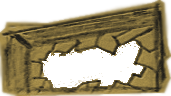
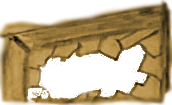
cahnges

diff --git a/js/interactions.js b/js/interactions.js
@@ -7,6 +7,10 @@ function interact_item(_static_item_clicked){
             _static_item_clicked.alpha = 0;
         break;
         
+        case 'bar_sign':
+            showManText('It reads: "BAR"', 200);
+        break;
+        
         case 'ladder_b':
             if (ladderMission && !stoneMission){
                 showManText("No point, the window seems closed from the inside", 0);
@@ -37,6 +41,7 @@ function interact_item(_static_item_clicked){
         
         case 'pub_door':
             showManText("Naa, it's still raining outside", 0);
+            //this.game.state.start('Street'); 
         break;
         
         case 'broken_pub_window':
@@ -62,6 +67,22 @@ function interact_item(_static_item_clicked){
         
         case 'barrel_empty':
             showManText("I'ts empty now. someone must have drank it! * Hic *", 0);
+        break;
+        
+        case 'stool':
+            showManText("It's a bar stool", 0);
+        break;
+        
+        case 'wc_door':
+            showManText("Stickmen bodily functions don't work that way", 0);
+        break;
+        
+        case 'chandelier':
+            showManText("That's one big lamp", 0);
+        break;
+        
+        case 'poster':
+            showManText('"Beer. Helping ugly Stickmen get laid since 1862"', 0);
         break;
         
         case 'secret_door':
@@ -152,8 +173,16 @@ function interact_item(_static_item_clicked){
     
     static_item_clicked = null;
     
-    if (_static_item_clicked.tint != '0xffffff') _static_item_clicked.tint = '0xffffff';
-    else { _static_item_clicked.alpha = 0; }
+    if (_static_item_clicked.tint != '0xffffff'){
+        setTimeout(function(){
+            _static_item_clicked.tint = '0xffffff';  
+        }, 200); 
+    }
+    else { 
+        setTimeout(function(){
+            _static_item_clicked.alpha = 0; 
+        }, 100); 
+   }
 }
 
 function window_mission(){
@@ -238,6 +267,7 @@ function use_item(inventory_item, static_item){
             get_item('name', 'ladder_b').visible = true;
             kill_inventory_item(inventory_item);
             showManText("I'm sure that won't look suspicious to anyone", 300);
+            suspend(total_text_time);
             
             ladderMission = true;
             
@@ -306,7 +336,7 @@ function use_item(inventory_item, static_item){
                 suspend(1000);
                 
                 setTimeout(function(){   
-                    create_item( game, 'dart', true, true, 480, 217, true );
+                    create_item( game, 'dart', true, true, 474, 224, true );
                 },300);
 
                 showManText("I suck at this", 1000);
@@ -315,7 +345,7 @@ function use_item(inventory_item, static_item){
             else{
                 suspend(5300);
                 
-                create_item( game, 'dart', true, false, 538, 185, true );
+                create_item( game, 'dart', true, false, 555, 196, true );
                 get_item('name', 'dart').tint = 0xffddff; 
 
                 showManText("Bullseye! i'm alot better at this when i'm drunk!", 500);
@@ -407,7 +437,7 @@ function use_item(inventory_item, static_item){
                 get_item('name', 'barrel_empty').visible = true;
                 
                 man.x = 728;
-                man.y = 313;
+                man.y = 320;
                 man.frame = 4;
                 dir == 'left';
             }, 7000);

diff --git a/js/pub.js b/js/pub.js
@@ -16,11 +16,11 @@ pub.prototype = {
        
         pub_bound_u = game.add.sprite(0, 0, null);
         game.physics.enable(pub_bound_u, Phaser.Physics.ARCADE);
-        pub_bound_u.body.setSize(TOTAL_WIDTH, 275);
+        pub_bound_u.body.setSize(TOTAL_WIDTH, 285);
         pub_bound_u.body.immovable = true;
 
         create_pub_items();
-        create_man(665, 375, 4);
+        create_man(690, 405, 4);
 
         sfxRain.stop();
 
@@ -39,8 +39,8 @@ pub.prototype = {
         var pub_vel_x = 40 + (Math.abs(man.body.x - placeToGoX) / 1.35);
         var pub_vel_y = 40 + (Math.abs(man.body.y - placeToGoY) / 1.6);
         
-        var boundsR = 750;
-        var boundsL = 250;
+        var boundsR = 760;
+        var boundsL = 260;
 
         if (placeToGoX != null){ 
             if (!sfxSteps_pub.isPlaying) sfxSteps_pub.play();
@@ -89,15 +89,19 @@ function hitPubBounds(){
 function create_pub_items(){
     drawLine();
     
-    create_item( game, 'glass', true, true, 607, 370, true );
-    create_item( game, 'barrel', true, false, 635, 243, true );
-    create_item( game, 'pub_door', false, false, 400, 177, true );
-    create_item( game, 'broken_pub_window', false, false, 563, 14, true );
-    create_item( game, 'dart', true, true, 220, 350, true );
-    create_item( game, 'dart_board', true, false, 540, 170, true );
-    create_item( game, 'rock', true, true, 590, 435, true );
-    create_item( game, 'barrel_glass', true, false, 635, 243, false );
-    create_item( game, 'barrel_open', true, false, 635, 243, false );
-    create_item( game, 'barrel_empty', true, false, 600, 255, false );
-    create_item( game, 'secret_door', true, false, 870, 382, false );
+    create_item( game, 'glass', true, true, 610, 417, true );
+    create_item( game, 'barrel', true, false, 653, 260, true );
+    create_item( game, 'barrel_glass', true, false, 653, 260, false );
+    create_item( game, 'barrel_open', true, false, 653, 260, false );
+    create_item( game, 'barrel_empty', true, false, 600, 265, false );
+    create_item( game, 'pub_door', false, false, 431, 193, true );
+    create_item( game, 'broken_pub_window', false, false, 588, 7, true );
+    create_item( game, 'dart', true, true, 222, 413, true );
+    create_item( game, 'dart_board', true, false, 558, 185, true );
+    create_item( game, 'rock', true, true, 588, 440, true );
+    create_item( game, 'secret_door', true, false, 877, 420, false );
+    create_item( game, 'stool', true, false, 305, 283, true );
+    create_item( game, 'chandelier', false, false, 364, 0, true );
+    create_item( game, 'wc_door', false, false, 788, 200, true ); // stop man comes before the interaction with door
+    create_item( game, 'poster', false, false, 694, 170, true );
 }

diff --git a/js/stickman.js b/js/stickman.js
@@ -131,11 +131,12 @@ function create_man(x, y, _frame){
     manText = game.add.text(0, 70, '' , {font: "20px " + font, fill: "#f9d5b2", align:'center', stroke: "0x000000", strokeThickness: 3});
     manText.anchor.setTo(0.5, 0.5);
 
-    walkingIcon = game.add.sprite(450, 350, 'walkingIcon');
+    walkingIcon = game.add.sprite(350, 290, 'walkingIcon');
     walkingIcon.anchor.set(0.5, 0);
     
     if (thisPlace == 'maze'){
         walkingIcon.scale.set(0.45, 0.45);
+        game.add.tween(man).from( { alpha: 0}, 2500, Phaser.Easing.Sinusoidal.InOut, true); 
     }
     
     game.camera.follow(man, Phaser.Camera.topdownFollow);
@@ -156,8 +157,8 @@ function walk_update(){
 function showManText(textToShow, timeToWait){    
     try{ clearTimeout(textTimer); } catch(e){}
     
-    fade_text_time = 400;
-    text_show_time = textToShow.length * 65;
+    fade_text_time = 350;
+    text_show_time = textToShow.length * 60;
     total_text_time = timeToWait + text_show_time + (fade_text_time * 1.5) + 50; 
 
     setTimeout(function(){
@@ -223,7 +224,7 @@ function create_rain(){
 
 function drawLine(){
     line = game.add.sprite(96, TOTAL_HEIGHT - 100, 'line');
-    line.alpha = 0.4;
+    line.alpha = 0.3;
     line.fixedToCamera = true;
 }
 
@@ -234,7 +235,7 @@ function endTheGame(){
     timePassedText = game.add.text(40 + game.camera.x, 120, 'To be continued...' , {font: "68px " + font, fill: "#f7f7f7", align:'center'});
     timePassedText.alpha = 0;
 
-    timePassedText2 = game.add.text(40 + game.camera.x, 245, 'When StickMan reaches\n1,000 downloads...' , {font: "48px " + font, fill: "#f7f7f7", align:'center'});
+    timePassedText2 = game.add.text(40 + game.camera.x, 245, 'October 31, 2016' , {font: "48px " + font, fill: "#f7f7f7", align:'center'});
     timePassedText2.alpha = 0;
 
     tweenAlpha(timePassedText, 1, 4500);            
@@ -292,10 +293,6 @@ function endTheGame(){
         setTimeout(function(){
             tweenAlpha(gameOverTxt2, 0, 4500);  
         }, 14500);  
-        
-       /* setTimeout(function(){
-            showAd();
-        }, 22000);  */
     }, 24000);              
 }
 

diff --git a/js/preloader.js b/js/preloader.js
@@ -13,6 +13,7 @@ preloader.prototype = {
         game.load.image('hall', 'images/stickman/hall.jpg');
         game.load.image('door', 'images/stickman/door.png');
         game.load.image('ladder_s', 'images/stickman/ladder_s.png');
+        game.load.image('bar_sign', 'images/stickman/bar_sign.png');
         game.load.image('window', 'images/stickman/window.png');
         game.load.image('pub_door', 'images/stickman/pub_door.png');
         game.load.image('barrel_empty', 'images/stickman/barrel_empty.png');
@@ -26,8 +27,12 @@ preloader.prototype = {
         game.load.image('barrel', 'images/stickman/barrel.png');
         game.load.image('barrel_glass', 'images/stickman/barrel_glass.png');
         game.load.image('barrel_open', 'images/stickman/barrel_open.png');
+        game.load.image('stool', 'images/stickman/stool.png');
         game.load.image('dart_board', 'images/stickman/dart_board.png');
         game.load.image('dart', 'images/stickman/dart.png');
+        game.load.image('chandelier', 'images/stickman/chandelier.png');
+        game.load.image('poster', 'images/stickman/poster.png');
+        game.load.image('wc_door', 'images/stickman/wc_door.png');
         game.load.image('secret_door', 'images/stickman/secret_door.png');
         game.load.image('switch', 'images/stickman/switch.png');
         game.load.image('hall_door', 'images/stickman/hall_door.png');

diff --git a/js/Item.js b/js/Item.js
@@ -36,14 +36,11 @@ Item.prototype.interact = function(){
             itemToTake = this.sprite;
         }
         else{
-
             for(var i = 0; i < items.length; i++) { // if 2 items were pressed before interaction with the 1st, cancel the 1st
                 if (items[i].sprite.alpha == 0.9 && !items[i].isLayered){
                     items[i].sprite.alpha = 0;
                 }
             }
-            
-            
             static_item_clicked = this.sprite;
             this.sprite.alpha = 0.9;
             this.sprite.tint = 0xffffff;  

diff --git a/js/boot.js b/js/boot.js
@@ -1,5 +1,5 @@
-//window.onload = start;
-document.addEventListener("deviceready", start, false);
+window.onload = start;
+//document.addEventListener("deviceready", start, false);
 
 function start(){
     var place;
@@ -33,9 +33,7 @@ boot.prototype = {
         try{
             place = localStorage.getItem("stickman-location");
         }
-        catch(e){
-            place = 'Street';
-        }
+        catch(e){}
 
         this.scale.scaleMode = Phaser.ScaleManager.SHOW_ALL;
 

diff --git a/js/maze.js b/js/maze.js
@@ -52,9 +52,9 @@ maze.prototype = {
         this.flash.alpha = 0;
 
         create_man(30, 185, 3);
-        man.scale.set(0.33, 0.29); 
+        man.scale.set(0.33, 0.29);
 
-        mazeText = showManText('Sure is dark here!', 600);   
+        mazeText = showManText('Sure is dark here!', 1200);   
         
         localStorage.setItem( "stickman-location", 'Maze' );
     },

diff --git a/js/street.js b/js/street.js
@@ -91,4 +91,5 @@ function create_street_items(){
     create_item( game, 'broken_window', true, false, 491, 172, false );
     create_item( game, 'ladder_b', true, false, 493, 245, false );
     create_item( game, 'rock', true, true, 260, 340, true ); 
+    create_item( game, 'bar_sign', true, false, 600, 174, true ); 
 }

diff --git a/js/menu.js b/js/menu.js
@@ -25,6 +25,9 @@ menu.prototype = {
         }, this);
         
         contBtn.events.onInputUp.add(function(){ 
+            if (place == null){
+                place = "Street";
+            }
             startGame();
         }, this);
                 
